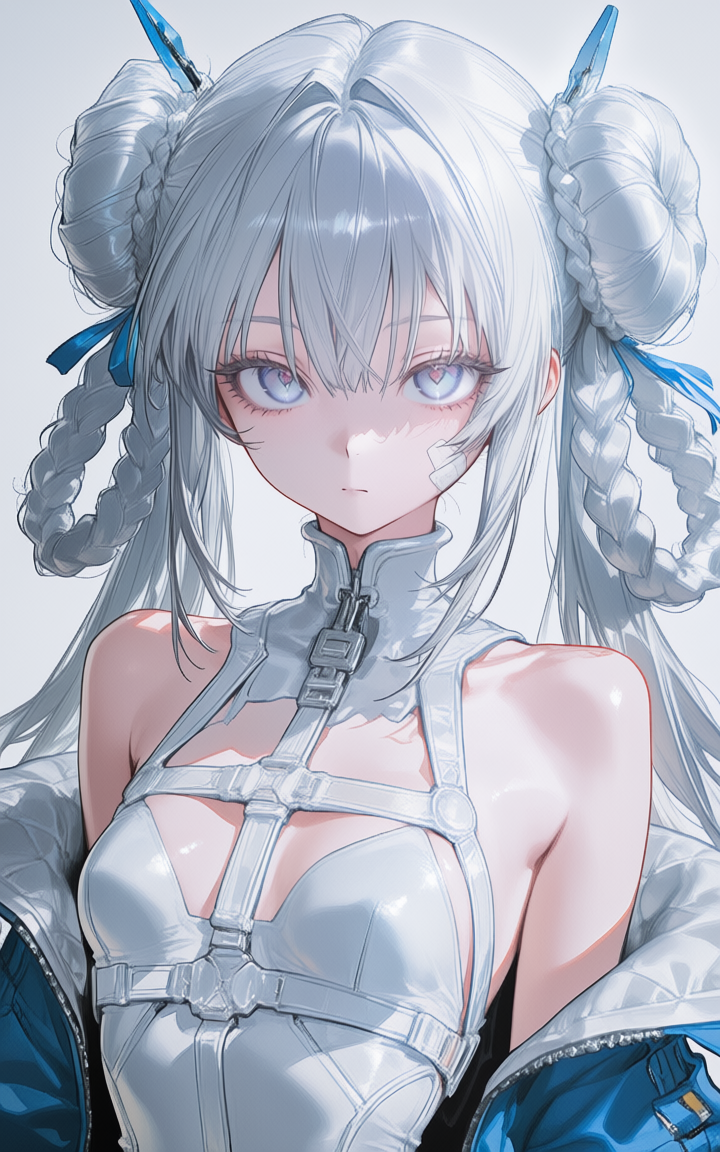
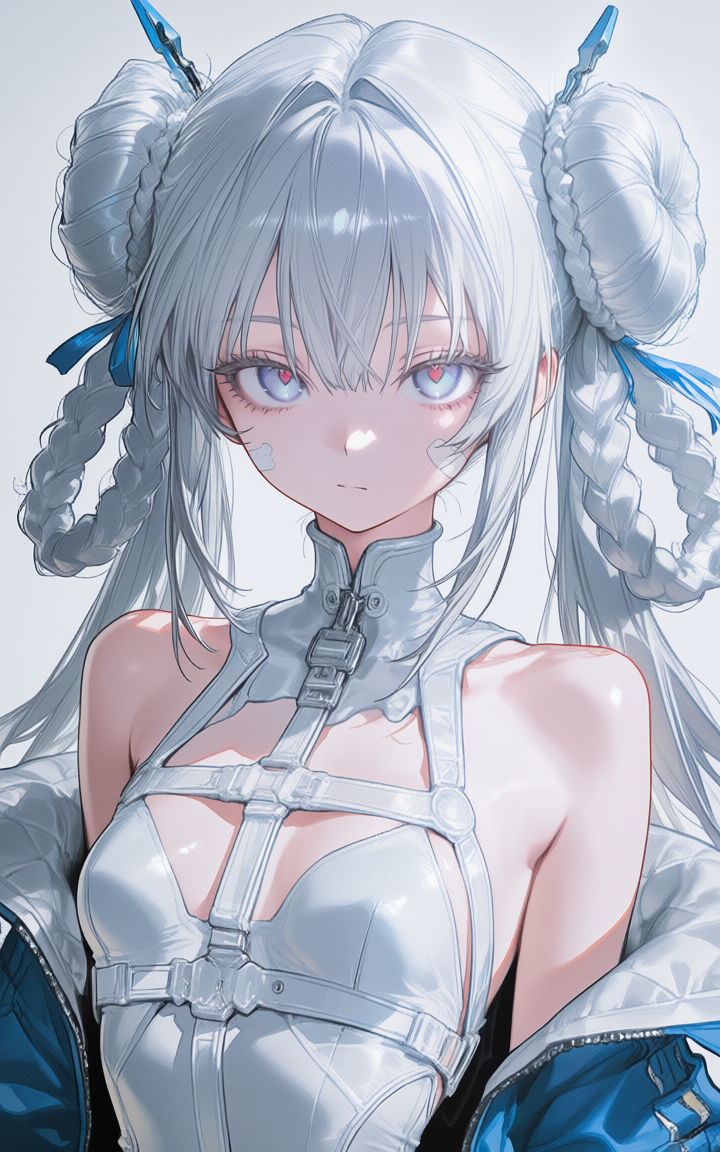
default assets to use Preview Image node instead of Save Image

diff --git a/frontend/workflows/image_gen/config_panel.js b/frontend/workflows/image_gen/config_panel.js
@@ -580,7 +580,7 @@ async function populateProfile() {
     }
     el.classList.remove("image-gen-note");
     el.innerHTML = `<div class="ig-profile-fields">
-        <label>Positive prompt<textarea id="ig-appearance" placeholder="Per-character permanent tags (e.g. Hatsune Miku, black and white)">${esc(res.profile.appearance_prompt || "")}</textarea></label>
+        <label>Positive prompt<textarea id="ig-appearance" placeholder="Per-character permanent tags, fill as much as you can (e.g. Hatsune Miku, black and white)">${esc(res.profile.appearance_prompt || "")}</textarea></label>
         <label>Negative prompt<textarea id="ig-profile-negative" placeholder="Per-character things to never render (e.g. glasses, colored, color). Quality and scene negatives are already handled.">${esc(res.profile.negative_prompt || "")}</textarea></label>
       </div>`;
   } catch {

diff --git a/backend/workflows/image_gen/composer.py b/backend/workflows/image_gen/composer.py
@@ -58,7 +58,7 @@ _SCENE_FORMAT_TAIL = (
     "First state the viewpoint, then each character's pose and action. Then describe their build, clothing, hair, "
     "and other visible attributes meticulously. Describe their interaction, then the setting, lighting, and framing. "
     "Be very meticulous, and as lengthy as needed. Use the word 'own' if action is done to self. Be obsessively precise and anatomically accurate, use quantitative words like 'one' or 'two'. "
-    "Prefer proactive verb-ing over passive verb-ed (e.g. pulling over pulled). Repetition is allowed. "
+    "Use direct, simple language; prefer proactive verb-ing over passive verb-ed (e.g. pulling over pulled). "
     "Focus on objects and subjects of interest (items, clothing, specific body parts, etc.), avoid abstract details (sensations, analogies, etc.). "
     "Do not add art-style words or quality words. Do not describe a face that is turned away from the camera. "
 )
@@ -79,7 +79,7 @@ _SCENE_FORMAT_STRUCTURED_TAIL = (
     "action come before the visible attributes. Do not add attributes the scene does not state. Do not describe a "
     "turned-away face. Describe the interaction, then the setting, the lighting, and the framing, avoid abstract details (sensations, analogies, etc.). "
     "Use the word 'own' if action is done to self. Be obsessively precise and anatomically accurate, use quantitative words like 'one' or 'two'. "
-    "Prefer proactive verb-ing over passive verb-ed (e.g. pulling over pulled). Repetition is allowed. "
+    "Use direct, simple language; prefer proactive verb-ing over passive verb-ed (e.g. pulling over pulled). "
     "Do not add art-style words or quality words. Leave `avoid` empty."
 )
 
@@ -133,9 +133,7 @@ ANALYZE_TOOL_SCHEMA = {
     "type": "function",
     "function": {
         "name": "analyze_scene",
-        "description": (
-            "Extract one visible scene: viewpoint, characters, current clothing, actions, interaction, setting, and framing."
-        ),
+        "description": ("Extract one visible scene: viewpoint, anchors, characters, actions, interaction, setting, etc."),
         "parameters": {
             "type": "object",
             "properties": {
@@ -146,6 +144,10 @@ ANALYZE_TOOL_SCHEMA = {
                         "first_person when the moment is narrated through a character's eyes (usually the user, 'you') "
                         "-- that character is the viewer and is NOT listed below. third_person otherwise."
                     ),
+                },
+                "anchors": {
+                    "type": ["string", "null"],
+                    "description": "Comma-separated setting objects the characters are positioned against.",
                 },
                 "characters": {
                     "type": "array",
@@ -176,7 +178,7 @@ ANALYZE_TOOL_SCHEMA = {
                             },
                             "position": {
                                 "type": ["string", "null"],
-                                "description": "Where they stand relative to anchors and to the other characters (left, right, behind, etc.).",
+                                "description": "Where they stand relative to anchors and to the other characters (left, beside, behind, etc.).",
                             },
                             "pose": {"type": ["string", "null"], "description": "Current pose."},
                             "action": {
@@ -191,7 +193,10 @@ ANALYZE_TOOL_SCHEMA = {
                                 ),
                             },
                             "expression": {"type": ["string", "null"], "description": "Visible expression, or null."},
-                            "gaze": {"type": ["string", "null"], "description": "Where they are looking, or null."},
+                            "gaze": {
+                                "type": ["string", "null"],
+                                "description": "Where they are looking - up, down, back, etc.",
+                            },
                         },
                         "required": [
                             "name",
@@ -208,10 +213,6 @@ ANALYZE_TOOL_SCHEMA = {
                         ],
                         "additionalProperties": False,
                     },
-                },
-                "anchors": {
-                    "type": ["string", "null"],
-                    "description": "Comma-separated setting objects the characters are positioned against.",
                 },
                 "setting": {"type": ["string", "null"], "description": "Location, time of day, and lighting."},
                 "interaction": {

diff --git a/docs/features/comfyui-setup.md b/docs/features/comfyui-setup.md
@@ -121,9 +121,9 @@ Workflow: [MiaoMiaoHarem_Default.png](../assets/MiaoMiaoHarem_Default.png)
 
 Download <https://huggingface.co/Kim2091/UltraSharpV2/resolve/main/4x-UltraSharpV2.safetensors> and put it in `ComfyUI/models/upscale_models/`
 
-### If you're GPU-rich (24GB+ VRAM), use Krea 2:
+### If you're GPU-rich (24GB+ VRAM), try Krea 2:
 
-<https://civitai.red/models/958009/redcraft-or-2-or-3-int8int4fp8-scaled?modelVersionId=3139241>
+<https://civitai.red/models/2760803/dasiwa-krea2-or-turbo-or-raw?modelVersionId=3151280>
  (Download the int8-convrot version and put it in `ComfyUI/models/checkpoints/`)
 
 Workflow: [Krea2_Default.png](../assets/Krea2_Default.png)
